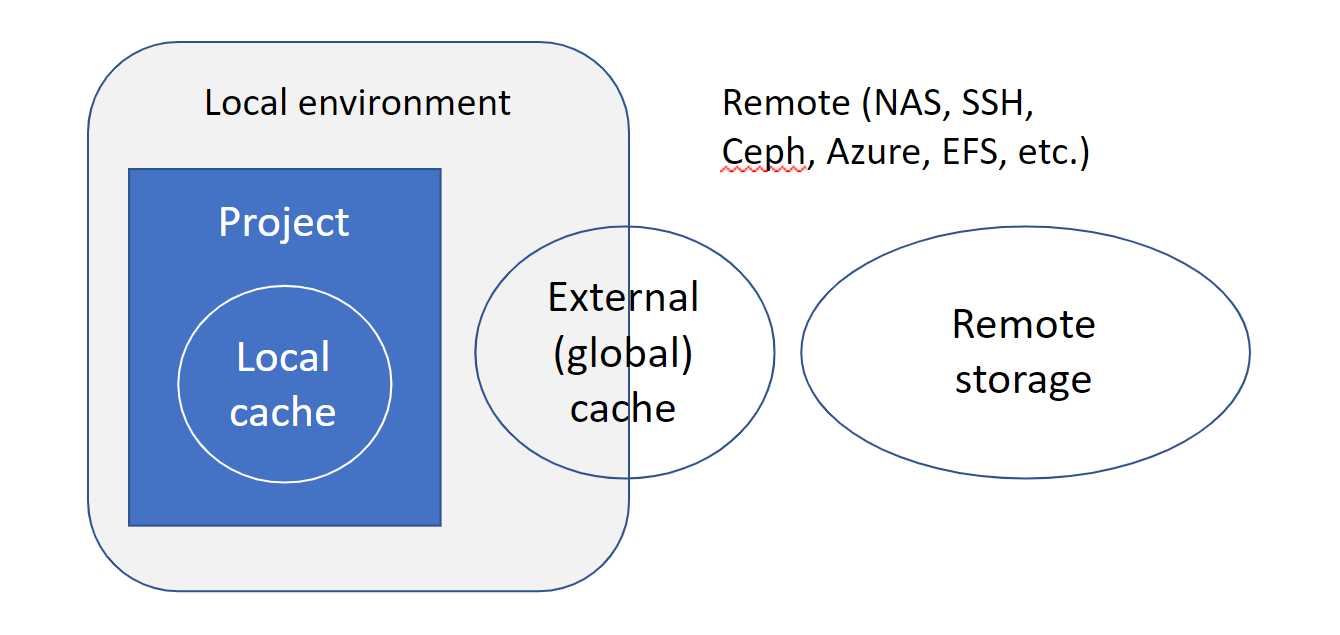
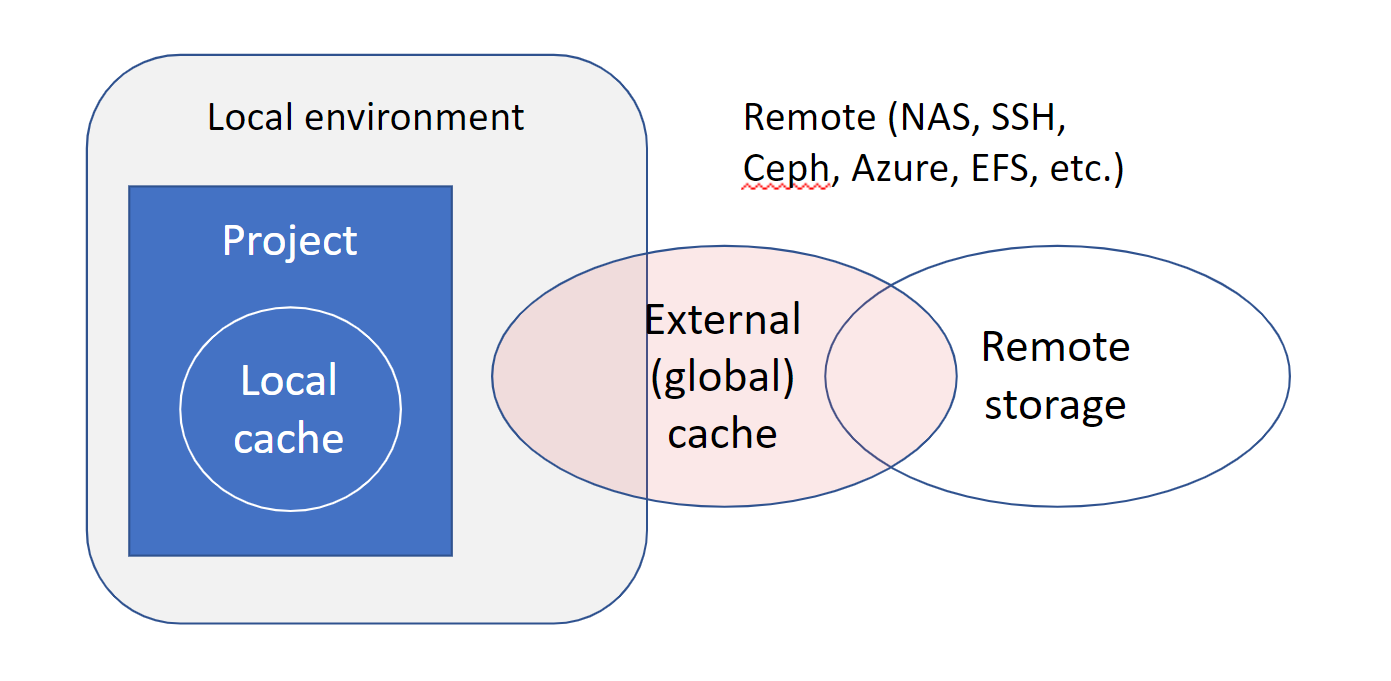
cases: refine intro, expand on Storage Layer solutions

diff --git a/content/docs/use-cases/data-storage-layers.md b/content/docs/use-cases/data-storage-layers.md
@@ -1,6 +1,6 @@
 # Data Storage Layers
 
-**Problem**: Collaborative dataset storage can be challenging. What
+**Problem**: Collaborative dataset and ML model storage can be challenging. What
 infrastructure should you provision? How do you optimize transfer speeds? Can
 you avoid data duplication? Who has read or write access?
 
@@ -8,38 +8,41 @@ you avoid data duplication? Who has read or write access?
 or two flexible storage layers, and let DVC connect them to your project. Their
 location can be local or remote; their purpose primary or secondary.
 
-![](/img/storage-layers.png) _Storage infrastructure possibilities_
+![](/img/storage-layers.png) _Possible placement of storage infrastructure_
 
 **Scenarios**:
 
-- You need to design a system for multiple users collaborating on the same
-  datasets.
-- Communicating with your existing storage (e.g. Amazon S3) takes too long. Can
-  you introduce a local storage cache layer for faster access?
+- You need to design a system for multiple people working on the same datasets.
+- Transfers to/from cloud storage (e.g. Amazon S3) takes too long. Can you
+  easily introduce a local cache layer for faster access?
 - You want to move data from your machine to an external drive without losing
   the ability to use it locally.
-- Your team shares access to a GPU server to train machine learning models, how
-  do you connect different datasets to run [experiments]?
+- Your team shares access to a GPU server for machine learning [experiments].
+  How do you connect different datasets?
 
-**Solutions**:
+[experiments]: #
 
-DVC converts your initial data, intermediate artifacts, and final ML models into
-storage objects automatically. These are <abbr>cached</abbr> by unique file
-contents and mapped back to your project's files and directories. This enforces
-file deduplication, and minimizes transfers by using cached data in-place via
-file links.
+**Solution**:
 
-Plug any cloud or on-premises storage (S3, GDrive, SSH, etc.), with custom auth
-and sharing config. A `dvc remote` can be setup in any supported storage
-platform as well.
+DVC converts your raw data, intermediate artifacts, and final ML models into
+unique storage objects automatically, separating storage from other aspects of
+your project. <abbr>Cached</abbr> files and directories are mapped back to your
+<abbr>workspace</abbr> directory using [file links]. This optimizes storage by
+avoiding file duplicates, and by minimizing future transfers.
 
-![]() _Bring-your-own storage system (NAS, Ceph, EFS, etc.)_
+[file links]:
+  /doc/user-guide/large-dataset-optimization#file-link-types-for-the-dvc-cache
 
-Anyone can `dvc checkout` necessary data from other repo copies, or from other
-projects altogether. By [linking] files from the <abbr>cache</abbr>, raw data or
-any artifacts appear in your <abbr>workspace</abbr> with near-instantaneous
-speed.
+There are several ways to make the most out of DVC storage features. One is to
+configure a [shared cache](/doc/user-guide/how-to/share-a-dvc-cache) among
+multiple <abbr>projects</abbr>, which compounds the deduplication and
+performance benefits. Accessing the data is as fast as the location where you
+set this common storage, e.g. a network-attached storage (NAS) or an SSH server
+in the local network.
 
-> The same applies when switching project [versions] or experiment branches.  
-> 📖 See [Dataset Optimization](/doc/user-guide/large-dataset-optimization) for
-> more details.
+Going a step further and making DVC storage global for all your teams' projects,
+it can become an independent layer in your infrastructure. For example, you can
+use Ceph, EFS, cloud object storage, etc. and setup your own access controls as
+supported by that platform.
+
+![]() _Bring-your-own storage system and authentication_
